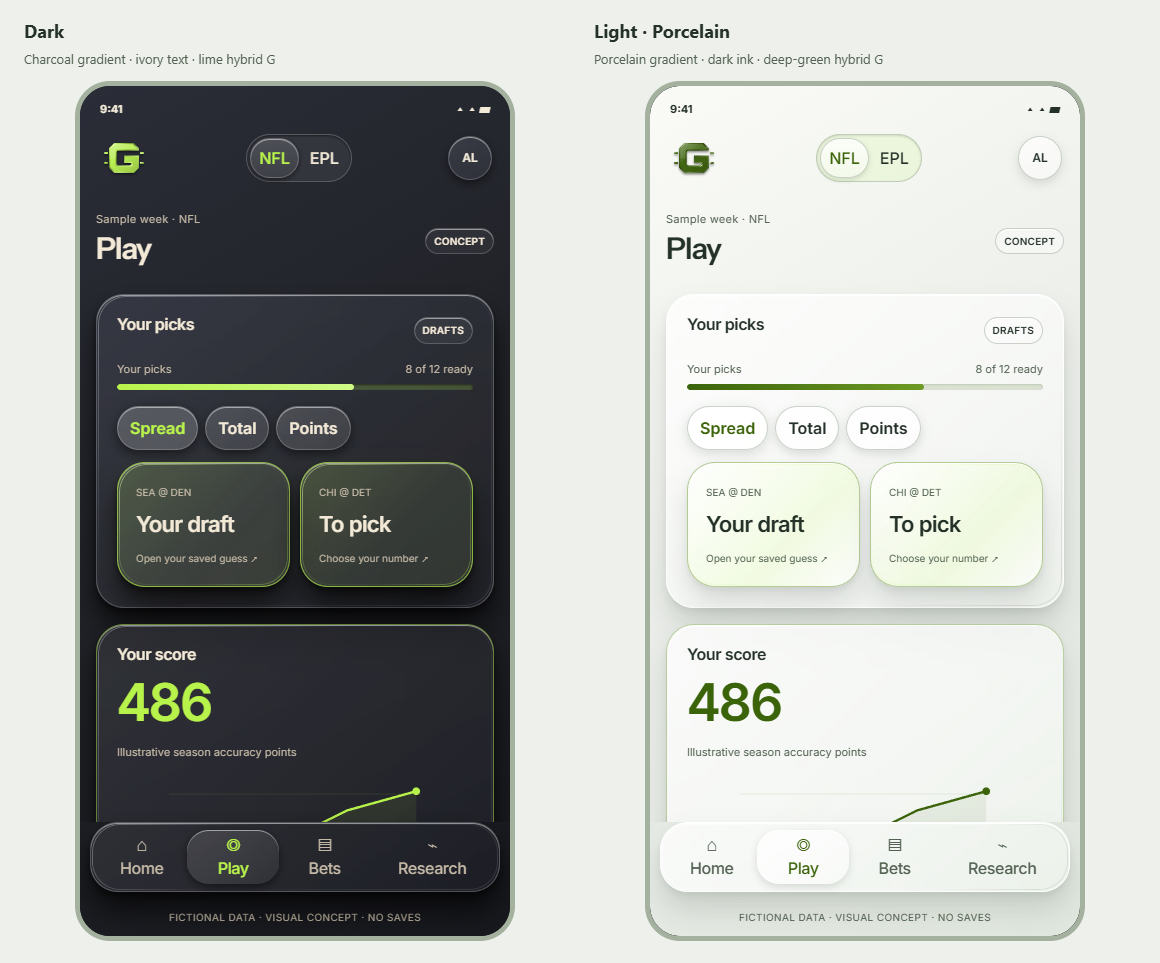
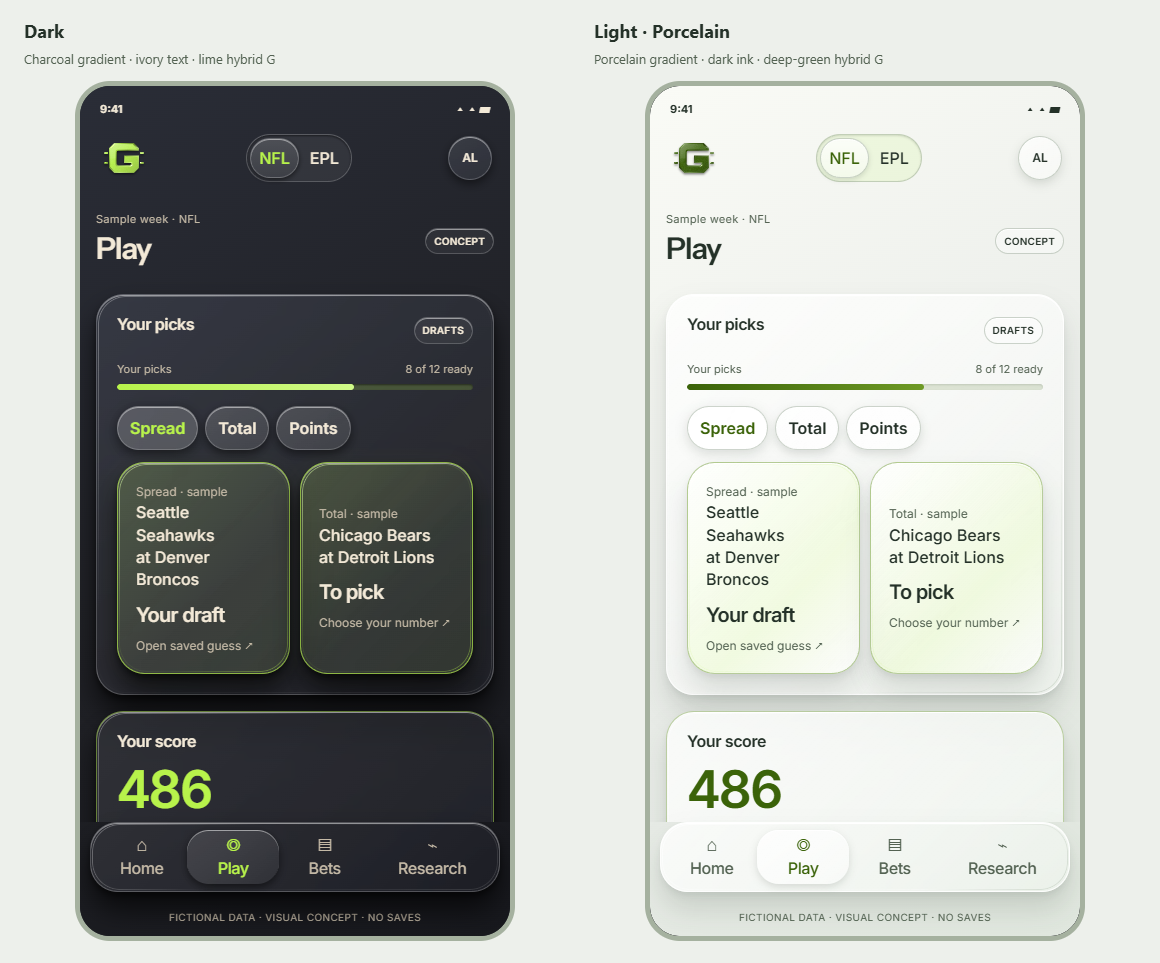
Add useful content previews and remove decorative matchup placeholder

diff --git a/design/style-directions-2026-11-04/selected-system-review.html b/design/style-directions-2026-11-04/selected-system-review.html
@@ -1,2 +1,2 @@
 <!doctype html><html lang="en"><head><meta charset="utf-8"><meta name="viewport" content="width=device-width,initial-scale=1"><link rel="icon" href="data:,"><title>Guess the Line — selected dark and light design review</title><style>*{box-sizing:border-box}body{margin:0;background:#EDF0EB;color:#243128;font:16px/1.5 -apple-system,BlinkMacSystemFont,"Segoe UI",sans-serif}header,nav,main,.review-notes,footer{max-width:1160px;margin:auto;padding-inline:24px}header{padding-top:24px;padding-bottom:18px}.eyebrow{font-size:12px;color:#536252;letter-spacing:.1em;text-transform:uppercase}h1{font-size:32px;line-height:1.15;letter-spacing:-1px;margin:10px 0}header p{color:#536252;margin:10px 0 0;max-width:90ch}.review-controls{display:flex;align-items:center;gap:12px;flex-wrap:wrap;padding-block:12px;border-block:1px solid #CBD4C8;background:#F8FAF5;position:sticky;top:0;z-index:20}button,select,textarea{font:inherit}button,select,.button-link{min-height:44px;padding:9px 14px;border:1px solid #8D9B87;border-radius:12px;background:#FFFFFF;color:#243128}button{cursor:pointer}.screen-buttons{display:flex;gap:6px;flex-wrap:wrap}.screen-buttons button[aria-pressed=true]{background:#365A0E;color:#FFFFFF;border-color:#365A0E}.layer-control{display:flex;gap:7px;align-items:center;font-size:14px}.layer-control select{max-width:230px}.review-controls a{margin-left:auto;font-size:14px}a{color:#365A0E}button:focus-visible,select:focus-visible,textarea:focus-visible,a:focus-visible,summary:focus-visible{outline:3px solid #365A0E;outline-offset:3px}main{display:grid;grid-template-columns:1fr 1fr;gap:28px;padding-top:18px;padding-bottom:22px}.preview{min-width:0}.preview h2{font-size:18px;margin:0 0 4px}.preview p{font-size:13px;color:#536252;margin:0 0 12px}.device{padding:5px;border-radius:35px;background:#A5B19F;max-width:440px;margin:auto}iframe{display:block;width:100%;height:850px;border:0;border-radius:30px;background:#202126}.review-notes{padding-bottom:18px}.review-notes details{border:1px solid #C3CDC0;border-radius:14px;background:#F8FAF5;padding:12px 16px}.review-notes summary{cursor:pointer;font-weight:600;min-height:32px}.review-notes label{display:block;margin:10px 0 6px;font-size:14px}.review-notes textarea{width:100%;min-height:90px;padding:12px;border:1px solid #8D9B87;border-radius:10px;font-size:16px}.note-actions{display:flex;align-items:center;justify-content:space-between;gap:12px;flex-wrap:wrap;margin-top:10px}#review-status{font-size:13px;color:#536252;min-height:20px}footer{padding-bottom:24px;color:#536252;font-size:13px}#load-status{font-size:13px;margin:8px 0 0;color:#536252}@media(max-width:720px){header,nav,main,.review-notes,footer{padding-inline:16px}main{grid-template-columns:1fr}.review-controls{position:relative}.review-controls a{margin-left:0}.screen-buttons{gap:5px}.screen-buttons button{padding-inline:11px}h1{font-size:28px}.preview h2,.preview p{max-width:440px;margin-inline:auto}.preview p{margin-bottom:12px}.layer-control select{max-width:220px}}
-</style></head><body><header><div class="eyebrow">Guess the Line / Your selected design</div><h1>Dark + Porcelain, across the app.</h1><p>Choose a screen or an opened layer to align both previews. Your selected logo, floating glass, selective lime and theme colors carry through the same fictional content.</p><p id="load-status" role="status">Loading matching previews…</p></header><nav class="review-controls" aria-label="Screen and layer review"><div class="screen-buttons" id="screen-buttons"></div><label class="layer-control">View<select id="review-layer" disabled></select></label><a href="selected-system-overview.html">All six screen pairs ↗</a></nav><main><section class="preview"><h2>Dark</h2><p>Charcoal gradient · ivory text · lime hybrid G</p><div class="device"><iframe id="dark-review-frame" data-review-theme="dark" data-background="#202126" data-wash="linear-gradient(150deg,#2A2D37 0%,#202126 50%,#17181D 100%)" data-text="#F3E9D7" data-muted="#C4B9A6" data-card-id="floating" data-card-settings="{&quot;fill&quot;: &quot;linear-gradient(135deg,#FFFFFF14,#FFFFFF06)&quot;, &quot;border&quot;: &quot;#FFFFFF38&quot;, &quot;blur&quot;: &quot;18px&quot;, &quot;shadow&quot;: &quot;inset 0 1px 0 #FFFFFF80,0 4px 6px #00000070,0 18px 28px #000000A6&quot;, &quot;gloss&quot;: &quot;.65&quot;, &quot;radius&quot;: &quot;28px&quot;}" data-button-id="transparent-frosted" data-button-settings="{&quot;fill&quot;: &quot;transparent&quot;, &quot;ink&quot;: &quot;#F3E9D7&quot;, &quot;border&quot;: &quot;3px solid #B8F34B&quot;, &quot;radius&quot;: &quot;20px&quot;, &quot;shadow&quot;: &quot;inset 0 1px 0 #FFFFFF26,0 8px 16px #00000080&quot;, &quot;shine&quot;: &quot;0&quot;, &quot;secondaryRadius&quot;: &quot;20px&quot;, &quot;secondaryShadow&quot;: &quot;inset 0 1px 0 #FFFFFF40,0 4px 8px #00000040&quot;, &quot;backdrop&quot;: &quot;blur(18px)&quot;}" data-lime-priority="true" title="Dark selected app design preview" src="prism.html?style=prism&amp;palette=obsidian&amp;screen=Home&amp;embed=1&amp;cards=uniform"></iframe></div></section><section class="preview"><h2>Light · Porcelain</h2><p>Porcelain gradient · dark ink · deep-green hybrid G</p><div class="device"><iframe id="light-review-frame" data-review-theme="light" data-light-settings="{&quot;number&quot;: 2, &quot;id&quot;: &quot;porcelain&quot;, &quot;name&quot;: &quot;Porcelain glass&quot;, &quot;note&quot;: &quot;Off-white with a gentle green undertone.&quot;, &quot;background&quot;: &quot;#E9ECE8&quot;, &quot;wash&quot;: &quot;linear-gradient(150deg,#FAFBF6,#E9ECE8 55%,#E0E7DE)&quot;, &quot;source&quot;: &quot;Earlier additional-round favorite 24 / Porcelain &amp; Evergreen&quot;, &quot;confirmed&quot;: &quot;2026-11-04&quot;, &quot;scope&quot;: &quot;Light-mode background preference from the three-way Research comparison&quot;, &quot;nextReview&quot;: &quot;Carry the light preview adaptations across screens alongside selected dark mode&quot;, &quot;production&quot;: &quot;Not integrated or deployed&quot;, &quot;ink&quot;: &quot;#243128&quot;, &quot;muted&quot;: &quot;#536252&quot;, &quot;accentInk&quot;: &quot;#3B6309&quot;, &quot;logo&quot;: &quot;logo-hybrid/light-deep-green.svg&quot;}" data-card-id="floating-light" data-card-settings="{&quot;fill&quot;: &quot;linear-gradient(135deg,#FFFFFFC7,#FFFFFF66)&quot;, &quot;border&quot;: &quot;#FFFFFFD9&quot;, &quot;blur&quot;: &quot;18px&quot;, &quot;shadow&quot;: &quot;inset 0 1px 0 #FFFFFF,0 4px 6px #20302412,0 18px 28px #20302424&quot;, &quot;gloss&quot;: &quot;.65&quot;, &quot;radius&quot;: &quot;28px&quot;}" data-button-id="transparent-light" data-button-settings="{&quot;fill&quot;: &quot;transparent&quot;, &quot;ink&quot;: &quot;#2C4617&quot;, &quot;border&quot;: &quot;3px solid #3B6309&quot;, &quot;radius&quot;: &quot;20px&quot;, &quot;shadow&quot;: &quot;inset 0 1px 0 #FFFFFFCC,0 8px 16px #24332318&quot;, &quot;shine&quot;: &quot;0&quot;, &quot;secondaryRadius&quot;: &quot;20px&quot;, &quot;secondaryShadow&quot;: &quot;inset 0 1px 0 #FFFFFFCC,0 4px 8px #24332312&quot;, &quot;backdrop&quot;: &quot;blur(18px)&quot;}" title="Light · Porcelain selected app design preview" src="prism.html?style=prism&amp;palette=arctic&amp;screen=Home&amp;embed=1&amp;cards=uniform"></iframe></div></section></main><section class="review-notes"><details><summary>Notes for this view</summary><label for="view-notes">What should change in this screen or layer?</label><textarea id="view-notes" placeholder="Mention dark or light, then the change you want."></textarea><div class="note-actions"><span id="review-status" role="status">Notes stay in this browser. Export to share them.</span><button id="export-review">Export review notes</button></div></details></section><footer>Six primary mockup areas and their available detail views · Fictional fixtures · Visual review, not production functionality or a release.<br>You can navigate inside either phone independently. Choose a screen/view above to align them again. No sign-off is inferred from opening views or saving notes.</footer><script src="app-background-options.js"></script><script src="glass-card-options.js"></script><script src="button-style-options.js"></script><script src="lime-priority-preview.js"></script><script src="light-mode-options.js"></script><script src="selected-system-review.js"></script></body></html>
+</style></head><body><header><div class="eyebrow">Guess the Line / Your selected design</div><h1>Dark + Porcelain, across the app.</h1><p>Choose a screen or an opened layer to align both previews. Your selected logo, floating glass, selective lime and theme colors carry through matching content previews. Home, Play, Bets and Research now have richer sample content.</p><p id="load-status" role="status">Loading matching previews…</p></header><nav class="review-controls" aria-label="Screen and layer review"><div class="screen-buttons" id="screen-buttons"></div><label class="layer-control">View<select id="review-layer" disabled></select></label><a href="selected-system-overview.html">All six screen pairs ↗</a></nav><main><section class="preview"><h2>Dark</h2><p>Charcoal gradient · ivory text · lime hybrid G</p><div class="device"><iframe id="dark-review-frame" data-review-theme="dark" data-background="#202126" data-wash="linear-gradient(150deg,#2A2D37 0%,#202126 50%,#17181D 100%)" data-text="#F3E9D7" data-muted="#C4B9A6" data-card-id="floating" data-card-settings="{&quot;fill&quot;: &quot;linear-gradient(135deg,#FFFFFF14,#FFFFFF06)&quot;, &quot;border&quot;: &quot;#FFFFFF38&quot;, &quot;blur&quot;: &quot;18px&quot;, &quot;shadow&quot;: &quot;inset 0 1px 0 #FFFFFF80,0 4px 6px #00000070,0 18px 28px #000000A6&quot;, &quot;gloss&quot;: &quot;.65&quot;, &quot;radius&quot;: &quot;28px&quot;}" data-button-id="transparent-frosted" data-button-settings="{&quot;fill&quot;: &quot;transparent&quot;, &quot;ink&quot;: &quot;#F3E9D7&quot;, &quot;border&quot;: &quot;3px solid #B8F34B&quot;, &quot;radius&quot;: &quot;20px&quot;, &quot;shadow&quot;: &quot;inset 0 1px 0 #FFFFFF26,0 8px 16px #00000080&quot;, &quot;shine&quot;: &quot;0&quot;, &quot;secondaryRadius&quot;: &quot;20px&quot;, &quot;secondaryShadow&quot;: &quot;inset 0 1px 0 #FFFFFF40,0 4px 8px #00000040&quot;, &quot;backdrop&quot;: &quot;blur(18px)&quot;}" data-lime-priority="true" title="Dark selected app design preview" src="prism.html?style=prism&amp;palette=obsidian&amp;screen=Home&amp;embed=1&amp;cards=uniform"></iframe></div></section><section class="preview"><h2>Light · Porcelain</h2><p>Porcelain gradient · dark ink · deep-green hybrid G</p><div class="device"><iframe id="light-review-frame" data-review-theme="light" data-light-settings="{&quot;number&quot;: 2, &quot;id&quot;: &quot;porcelain&quot;, &quot;name&quot;: &quot;Porcelain glass&quot;, &quot;note&quot;: &quot;Off-white with a gentle green undertone.&quot;, &quot;background&quot;: &quot;#E9ECE8&quot;, &quot;wash&quot;: &quot;linear-gradient(150deg,#FAFBF6,#E9ECE8 55%,#E0E7DE)&quot;, &quot;source&quot;: &quot;Earlier additional-round favorite 24 / Porcelain &amp; Evergreen&quot;, &quot;confirmed&quot;: &quot;2026-11-04&quot;, &quot;scope&quot;: &quot;Light-mode background preference from the three-way Research comparison&quot;, &quot;nextReview&quot;: &quot;Carry the light preview adaptations across screens alongside selected dark mode&quot;, &quot;production&quot;: &quot;Not integrated or deployed&quot;, &quot;ink&quot;: &quot;#243128&quot;, &quot;muted&quot;: &quot;#536252&quot;, &quot;accentInk&quot;: &quot;#3B6309&quot;, &quot;logo&quot;: &quot;logo-hybrid/light-deep-green.svg&quot;}" data-card-id="floating-light" data-card-settings="{&quot;fill&quot;: &quot;linear-gradient(135deg,#FFFFFFC7,#FFFFFF66)&quot;, &quot;border&quot;: &quot;#FFFFFFD9&quot;, &quot;blur&quot;: &quot;18px&quot;, &quot;shadow&quot;: &quot;inset 0 1px 0 #FFFFFF,0 4px 6px #20302412,0 18px 28px #20302424&quot;, &quot;gloss&quot;: &quot;.65&quot;, &quot;radius&quot;: &quot;28px&quot;}" data-button-id="transparent-light" data-button-settings="{&quot;fill&quot;: &quot;transparent&quot;, &quot;ink&quot;: &quot;#2C4617&quot;, &quot;border&quot;: &quot;3px solid #3B6309&quot;, &quot;radius&quot;: &quot;20px&quot;, &quot;shadow&quot;: &quot;inset 0 1px 0 #FFFFFFCC,0 8px 16px #24332318&quot;, &quot;shine&quot;: &quot;0&quot;, &quot;secondaryRadius&quot;: &quot;20px&quot;, &quot;secondaryShadow&quot;: &quot;inset 0 1px 0 #FFFFFFCC,0 4px 8px #24332312&quot;, &quot;backdrop&quot;: &quot;blur(18px)&quot;}" title="Light · Porcelain selected app design preview" src="prism.html?style=prism&amp;palette=arctic&amp;screen=Home&amp;embed=1&amp;cards=uniform"></iframe></div></section></main><section class="review-notes"><details><summary>Notes for this view</summary><label for="view-notes">What should change in this screen or layer?</label><textarea id="view-notes" placeholder="Mention dark or light, then the change you want."></textarea><div class="note-actions"><span id="review-status" role="status">Notes stay in this browser. Export to share them.</span><button id="export-review">Export review notes</button></div></details></section><footer>Six primary mockup areas and their available detail views · Fictional fixtures · Visual review, not production functionality or a release.<br>You can navigate inside either phone independently. Choose a screen/view above to align them again. No sign-off is inferred from opening views or saving notes.</footer><script src="app-background-options.js"></script><script src="glass-card-options.js"></script><script src="button-style-options.js"></script><script src="lime-priority-preview.js"></script><script src="light-mode-options.js"></script><script src="selected-content-preview.js"></script><script src="selected-system-review.js"></script></body></html>

diff --git a/design/style-directions-2026-11-04/selected-content-preview.js b/design/style-directions-2026-11-04/selected-content-preview.js
@@ -1,0 +1,64 @@
+(()=>{
+'use strict';
+const css=`
+.phone[data-content-preview] .quick.content-quick{min-height:164px;gap:9px;justify-content:flex-start}
+.phone[data-content-preview] .content-quick>strong{font-size:16px}
+.phone[data-content-preview] .quick.content-quick>span{font-size:13px;line-height:1.4}
+.phone[data-content-preview] .quick.content-quick .content-body{color:var(--ink);font-size:16px;font-weight:500}
+.phone[data-content-preview] .quick.content-quick em{margin-top:auto}
+.phone[data-content-preview] .quick.content-quick .mini-big{font-size:28px;line-height:1.1;color:var(--accent);font-weight:600;letter-spacing:-.7px}
+.phone[data-content-preview] .mini-big small{font-size:14px;font-weight:500;letter-spacing:0}
+.phone[data-content-preview] .mini-chart{width:100%;height:48px;color:var(--accent);display:block;flex-shrink:0}
+.phone[data-content-preview] .mini-comparison{display:flex;gap:12px;justify-content:space-between}
+.phone[data-content-preview] .mini-comparison>span{display:flex;flex-direction:column;gap:5px;font-size:13px;color:var(--muted)}
+.phone[data-content-preview] .mini-comparison b{font-size:22px;font-weight:600;letter-spacing:-.5px;color:var(--ink)}
+.phone[data-content-preview] .matchup-summary{display:grid;grid-template-columns:minmax(0,1fr) auto minmax(0,1fr);align-items:center;gap:10px;padding:14px 0;margin:8px 0 14px;border-block:1px solid var(--line)}
+.phone[data-content-preview] .matchup-summary>div{min-width:0}
+.phone[data-content-preview] .matchup-summary strong{display:block;font-size:16px;font-weight:600;line-height:1.3;letter-spacing:-.25px}
+.phone[data-content-preview] .matchup-summary small{display:block;color:var(--muted);font-size:12px;margin-bottom:5px}
+.phone[data-content-preview] .matchup-summary .at{font-size:15px;color:var(--muted)}
+.phone[data-content-preview] .pick-card.content-pick{min-height:178px}
+.phone[data-content-preview] .content-pick .pick-team{display:block;font-size:16px;font-weight:500;line-height:1.4;color:var(--ink)}
+.phone[data-content-preview] .content-pick b{font-size:20px;margin:12px 0 8px}
+.phone[data-content-preview] .content-pick small{font-size:12px;line-height:1.4}
+.phone[data-content-preview] .content-subtitle{font-size:13px;color:var(--muted);line-height:1.5}
+`;
+const matchup=()=>'<div><small>Away</small><strong>Seattle<br>Seahawks</strong></div><span class="at">@</span><div><small>Home</small><strong>Denver<br>Broncos</strong></div>';
+const chart='<svg class="mini-chart" viewBox="0 0 280 90" aria-hidden="true"><path d="M12 82L72 65L130 69L195 37L267 17L267 89L12 89Z" fill="currentColor" opacity=".09"/><path d="M12 82L72 65L130 69L195 37L267 17" fill="none" stroke="currentColor" stroke-width="3"/><circle cx="267" cy="17" r="4" fill="currentColor"/></svg>';
+const league='<strong>League</strong><span>Your community</span><span class="mini-big">02 <small>/ 24</small></span><span>Sample community rank</span><em aria-hidden="true">↗</em>';
+const researchCards={
+ 'detail:games':'<strong>Games</strong><span class="content-body">Seattle at Denver</span><span>Spread · Total</span><span>Open the sample matchup</span><em aria-hidden="true">↗</em>',
+ 'detail:trends':'<strong>Trends</strong>'+chart+'<span>Sample trend · Weeks 1–5</span><em aria-hidden="true">↗</em>',
+ 'detail:fantasy':'<strong>Fantasy</strong><span>Targets · sample comparison</span><span class="mini-comparison"><span>Player A<b>8.0</b></span><span>Player B<b>6.5</b></span></span><em aria-hidden="true">↗</em>',
+ 'detail:teams':'<strong>Teams</strong><span class="content-body">Seattle Seahawks</span><span class="content-body">Denver Broncos</span><span>Open team profiles</span><em aria-hidden="true">↗</em>'
+};
+document.querySelectorAll('iframe[data-review-theme]').forEach(frame=>{
+ let observer;
+ function apply(){
+  const doc=frame.contentDocument,phone=doc?.querySelector('.phone');if(!phone)return;
+  phone.dataset.contentPreview='v1';const screen=phone.querySelector('.screen'),area=doc.getElementById('screen')?.value;
+  if(screen.dataset.contentPreview)return;screen.dataset.contentPreview='true';
+  if(!['Home','Play','Bets','Research'].includes(area))return;
+  screen.querySelectorAll('.field').forEach(field=>{const summary=doc.createElement('div');summary.className='matchup-summary';summary.setAttribute('aria-label','Sample matchup: Seattle Seahawks at Denver Broncos');summary.innerHTML=matchup();field.replaceWith(summary);});
+  if(screen.querySelector('.detail-close'))return;
+  screen.querySelectorAll('button.quick').forEach(button=>{
+   const action=button.dataset.action;let content;
+   if(action==='detail:league')content=league;
+   else if(area==='Home'&&action==='Research')content='<strong>Research</strong><span class="content-body">Seattle at Denver</span><span>Matchups · trends · usage</span><span>Open the sample notebook</span><em aria-hidden="true">↗</em>';
+   else if(area==='Research')content=researchCards[action];
+   if(content){button.classList.add('content-quick');button.innerHTML=content;}
+  });
+  if(area==='Play')screen.querySelectorAll('button.pick-card').forEach(button=>{
+   button.classList.add('content-pick');
+   if(button.dataset.action==='detail:spread')button.innerHTML='<small>Spread · sample</small><span class="pick-team">Seattle Seahawks</span><span class="pick-team">at Denver Broncos</span><b>Your draft</b><small>Open saved guess ↗</small>';
+   if(button.dataset.action==='detail:total')button.innerHTML='<small>Total · sample</small><span class="pick-team">Chicago Bears</span><span class="pick-team">at Detroit Lions</span><b>To pick</b><small>Choose your number ↗</small>';
+  });
+  if(area==='Bets'){
+   const action=screen.querySelector('[data-action="detail:recommendations"]');
+   if(action){const panel=action.closest('.panel'),summary=doc.createElement('div');summary.className='matchup-summary';summary.setAttribute('aria-label','Sample research matchup: Seattle Seahawks at Denver Broncos');summary.innerHTML=matchup();panel.insertBefore(summary,action);const paragraph=panel.querySelector('p');if(paragraph){paragraph.classList.add('content-subtitle');paragraph.textContent='Sample matchup research · Spread and Total.';}}
+  }
+ }
+ function ready(){const doc=frame.contentDocument;if(!doc?.getElementById('grid'))return;observer?.disconnect();if(!doc.getElementById('selected-content-styles')){const style=doc.createElement('style');style.id='selected-content-styles';style.textContent=css;doc.head.append(style);}observer=new MutationObserver(apply);observer.observe(doc.getElementById('grid'),{childList:true,subtree:true});apply();}
+ frame.addEventListener('load',ready);if(frame.contentDocument?.querySelector('.phone'))ready();
+});
+})();

diff --git a/design/style-directions-2026-11-04/README.md b/design/style-directions-2026-11-04/README.md
@@ -1,6 +1,47 @@
 # Guess The Line — eight whole-app style directions
 
-Owner: Sean Balsiger · Version 28 · November 4, 2026
+Owner: Sean Balsiger · Version 29 · November 4, 2026
+
+## Useful mini previews in reopened screens — November 4, 2026
+
+Sean explicitly confirmed replacing sparse bubbles with useful content previews.
+The [paired review](selected-system-review.html?screen=Home) now enriches Home,
+Play, Bets and Research while retaining the exact selected theme/logo/card/button
+recipes. [Scope and fixture sources](selected-content-preview.json) identify the
+reused sample data: community rank 02/24, the existing Seahawks/Broncos and
+Bears/Lions matchups, fantasy targets 8.0/6.5 and the existing trend-path geometry.
+No private picks, live odds/projections or recommendations were added.
+
+Home's League and Research cards contain summaries. Play draft/total cards show
+full sample matchup names. Bets' recommendation panel previews matchup research.
+Research's Games/Trends/Fantasy/Teams cards contain a matchup, mini chart, player
+comparison and team names. Decorative football-field lines are replaced with a
+clean full-name matchup in the affected overview/detail views. Native button
+nodes and their bound click handlers are preserved; only their contents change.
+This controller is scoped to the current selected-system review; the earlier
+style studies, EPL/Account and held awards/avatar/team-mark/icon features are
+unchanged. Real NFL/EPL marks remain deferred under Sean's earlier instruction.
+
+Earlier screen acknowledgments remain historical, with fresh visual review
+pending and Home/overview next. [Expanded Home](previews/selected-content-home-expanded.png)
+and [expanded Research](previews/selected-content-research-expanded.png) captures
+show more content than a standard phone viewport; the live review retains normal
+850px frames with internal scrolling. All six standard primary captures and the
+overview gallery were refreshed; expanded captures are presentation aids only.
+
+Chromium rechecked all six screen pairs at four widths (24 layout cases / 48
+frames), all 26 paired states (52 themed views), matching content/selected
+recipes, notes/export/deep links and table/overview behavior. Separate pointer
+checks verified eight Research quick-card open/Back flows and two Play pick-card
+flows on both themes. Research has zero remaining `.field` placeholders, four
+content previews and the expected sample usage values. No JavaScript errors were
+observed. Syntax, local links/IDs, metadata/fixture/selected-source consistency
+and Brand QA passed. Expanded Home/Research captures were inspected at full size;
+updated primary and overview captures were checked. These are bounded mockup
+checks, not full accessibility, hosted acceptance or final screen approval.
+Production, frozen tracker, style selections and deferred scope are unchanged.
+
+![Revised Research with meaningful previews and a clean matchup](previews/selected-content-research-expanded.png)
 
 ## Visual review progress — November 4, 2026
 
@@ -9,8 +50,8 @@ missing team marks and sparse bubbles. **Home, Play and Bets overviews are
 reopened in both themes**, with Research concerns still unresolved. Prior yes
 acknowledgments remain in [acceptance history](selected-system-review.json), not
 current completed sign-off. Chosen style recipes remain the starting point.
-Clarify useful miniature content previews versus simple identifiers before
-revising the bubbles. Metadata scope and Brand QA passed. Visuals and production
+Sean confirmed useful miniature content previews; the implemented revision
+is now ready for fresh review. Metadata scope and Brand QA passed. Visuals and production
 are unchanged; whole-project completion and deferred work remain open.
 
 ## Selected dark + Porcelain across primary screens and layers — November 4, 2026

diff --git a/docs/COMPLETION_REGISTER.md b/docs/COMPLETION_REGISTER.md
@@ -1,5 +1,19 @@
 # Guess The Line — current completion register
 
+## Mini content previews added for fresh review — November 4, 2026
+
+Sean confirmed useful mini previews. The [paired viewer](../design/style-directions-2026-11-04/selected-system-review.html?screen=Home)
+now adds summaries and richer matchup/draft/research content in Home, Play,
+Bets and Research. Research's decorative field grid is replaced with full-name
+matchup details; the four quick cards show matchup, trend, usage and team
+previews. [Sources and evidence](../design/style-directions-2026-11-04/README.md)
+record original fictional fixtures, retained native handlers/selected recipes,
+26 paired-state regression checks, four responsive widths, eight Research and
+two Play pointer flows, refreshed/expanded captures and Brand QA. Fresh review
+starts at Home; earlier acknowledgments remain historical, with no current
+screen sign-off inferred. Actual team marks/icons/avatars/awards stay held;
+production, frozen tracker and selected style recipes are unchanged.
+
 ## Earlier screen approvals reopened for closer review — November 4, 2026
 
 Sean said the Research matchup lines and sparse bubbles were unsatisfactory and

diff --git a/docs/DESIGN_EXPLORATION.md b/docs/DESIGN_EXPLORATION.md
@@ -1,5 +1,15 @@
 # GTL — Design exploration and approvals (2026-10-08; status reconciled 2026-10-26)
 
+## November 4, 2026 — useful mini previews implemented
+
+Sean confirmed replacing sparse bubbles with useful mini content previews.
+The [selected-system viewer](../design/style-directions-2026-11-04/selected-system-review.html?screen=Home)
+now enriches Home/Play/Bets/Research using existing fictional matchup, rank,
+trend and player-usage fixtures, with clean full-name matchups replacing the
+field-grid placeholder. Native handlers and chosen visual recipes are retained.
+The content revision awaits fresh review; historical acknowledgments do not
+close those screens. Production and deferred logo/icon/avatar/award scope are unchanged.
+
 ## November 4, 2026 — reopen earlier screen reviews
 
 Sean flagged the Research yard-line placeholder, missing marks and sparse
